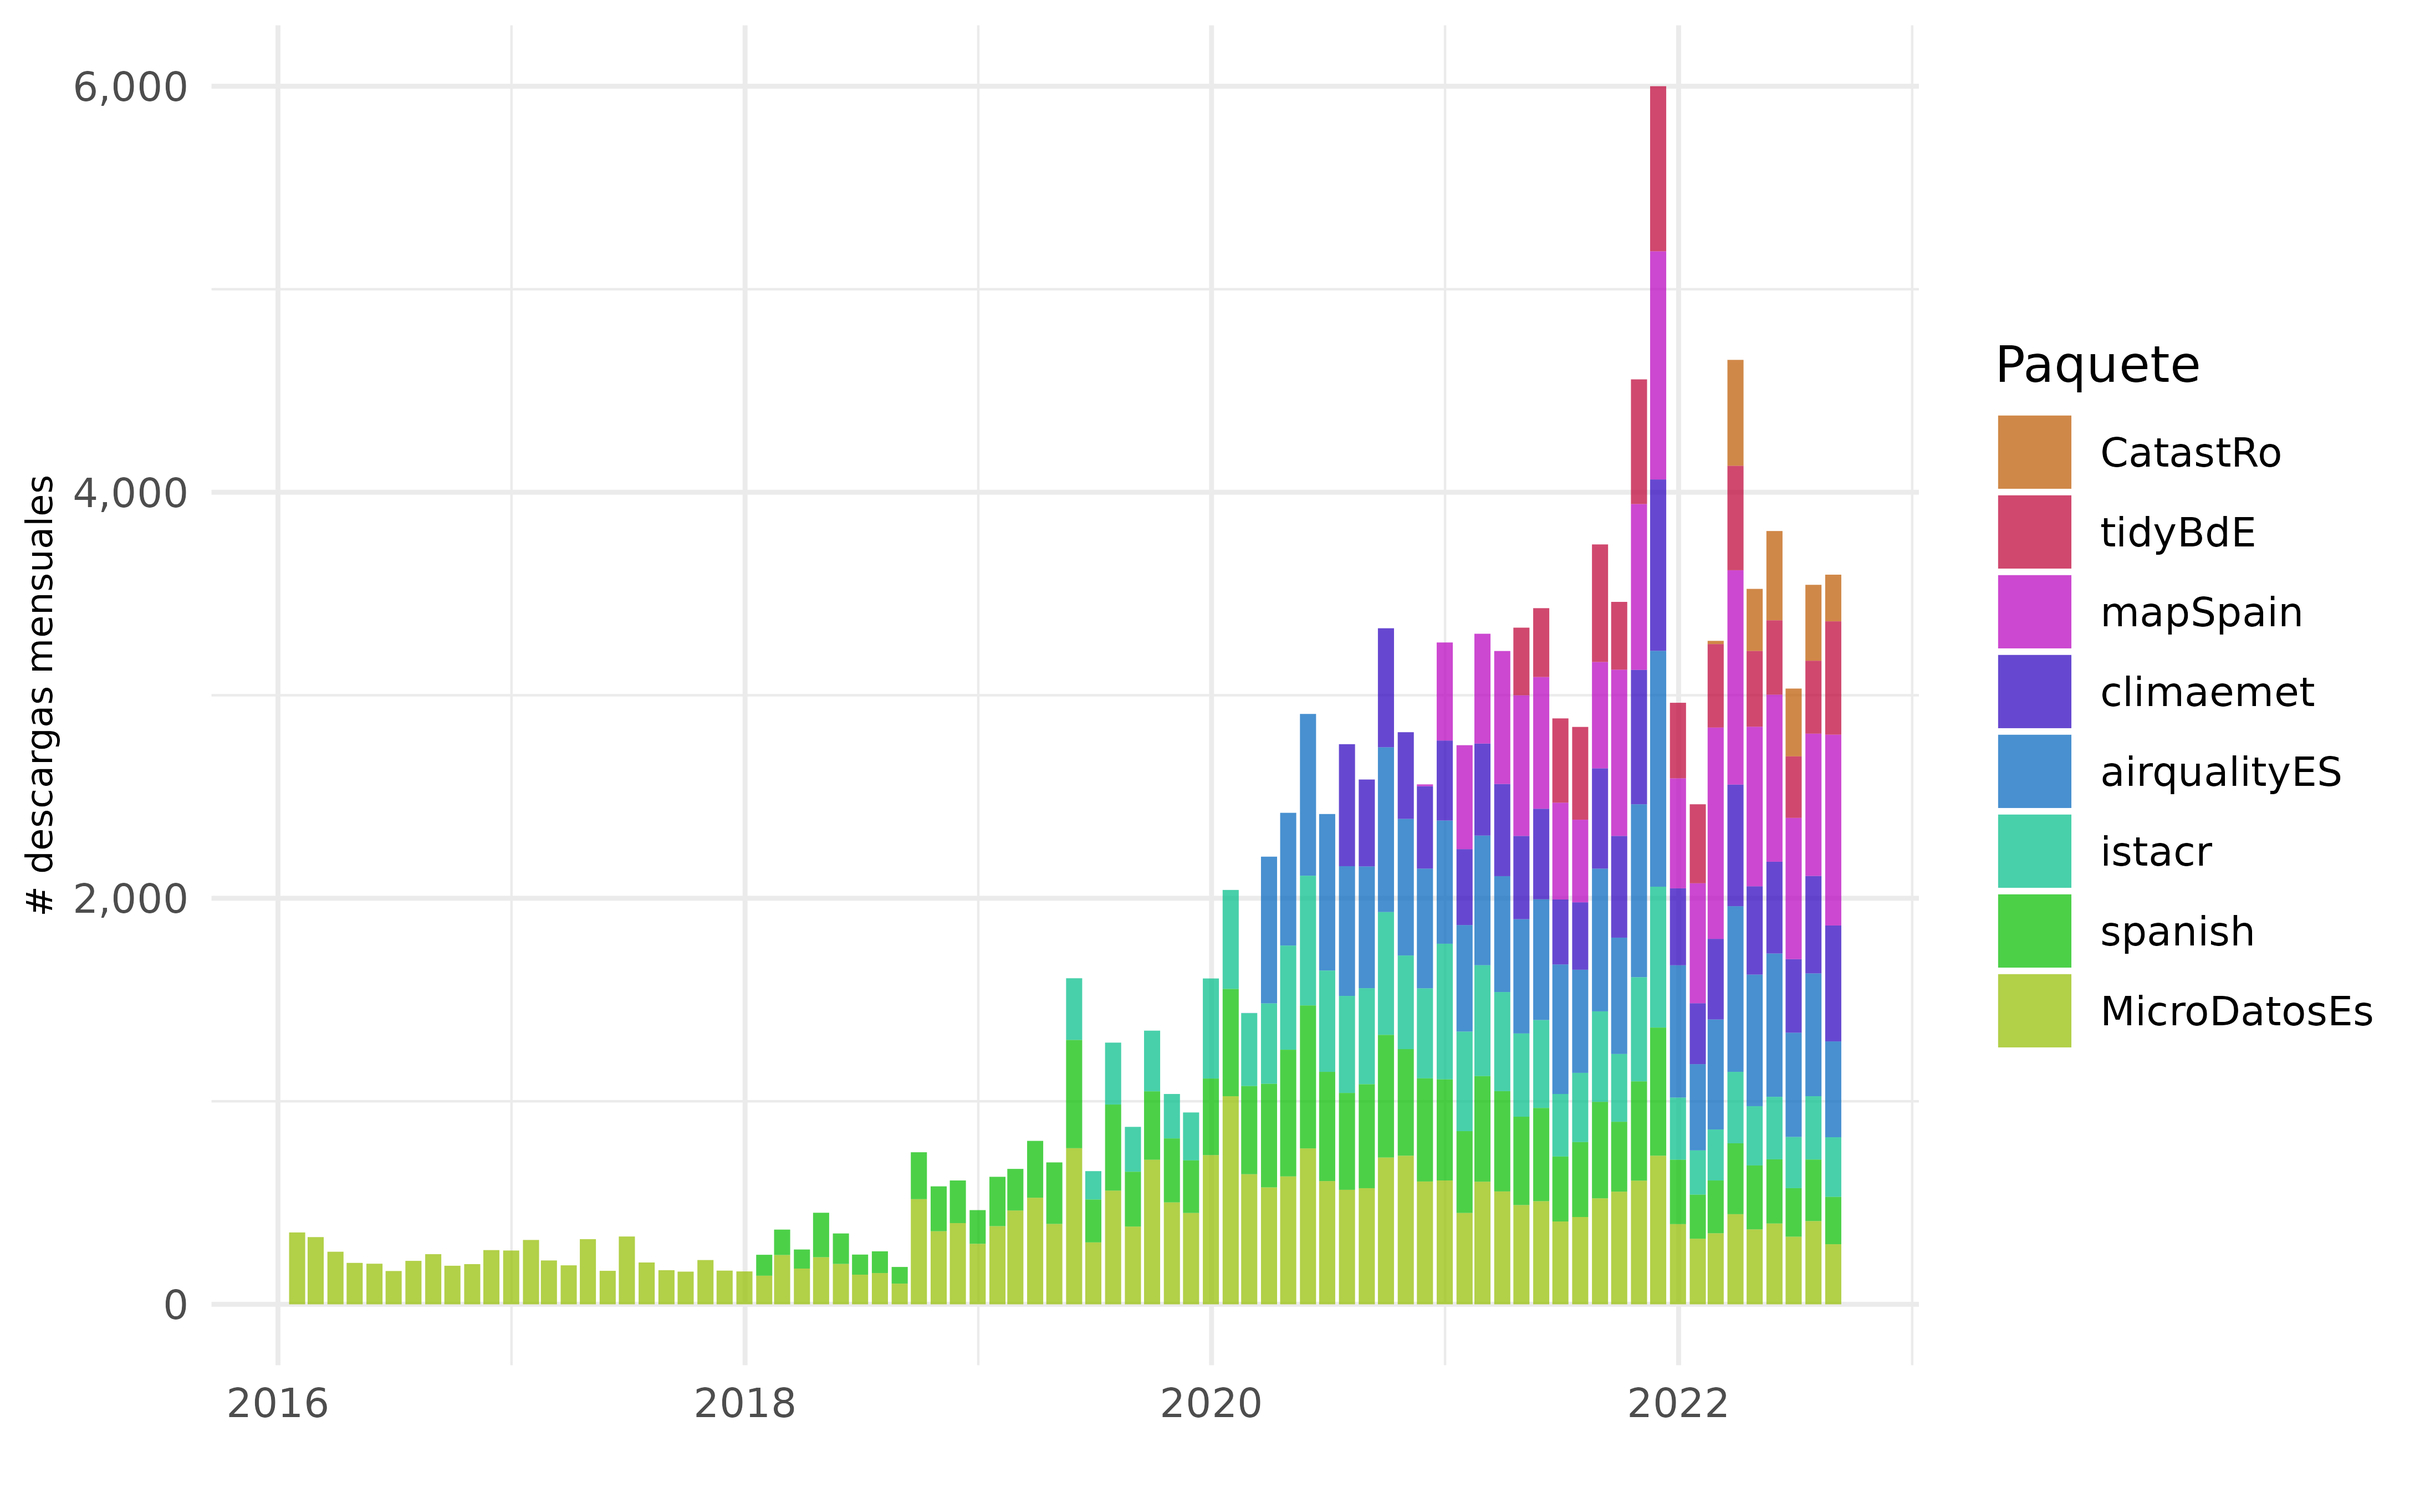
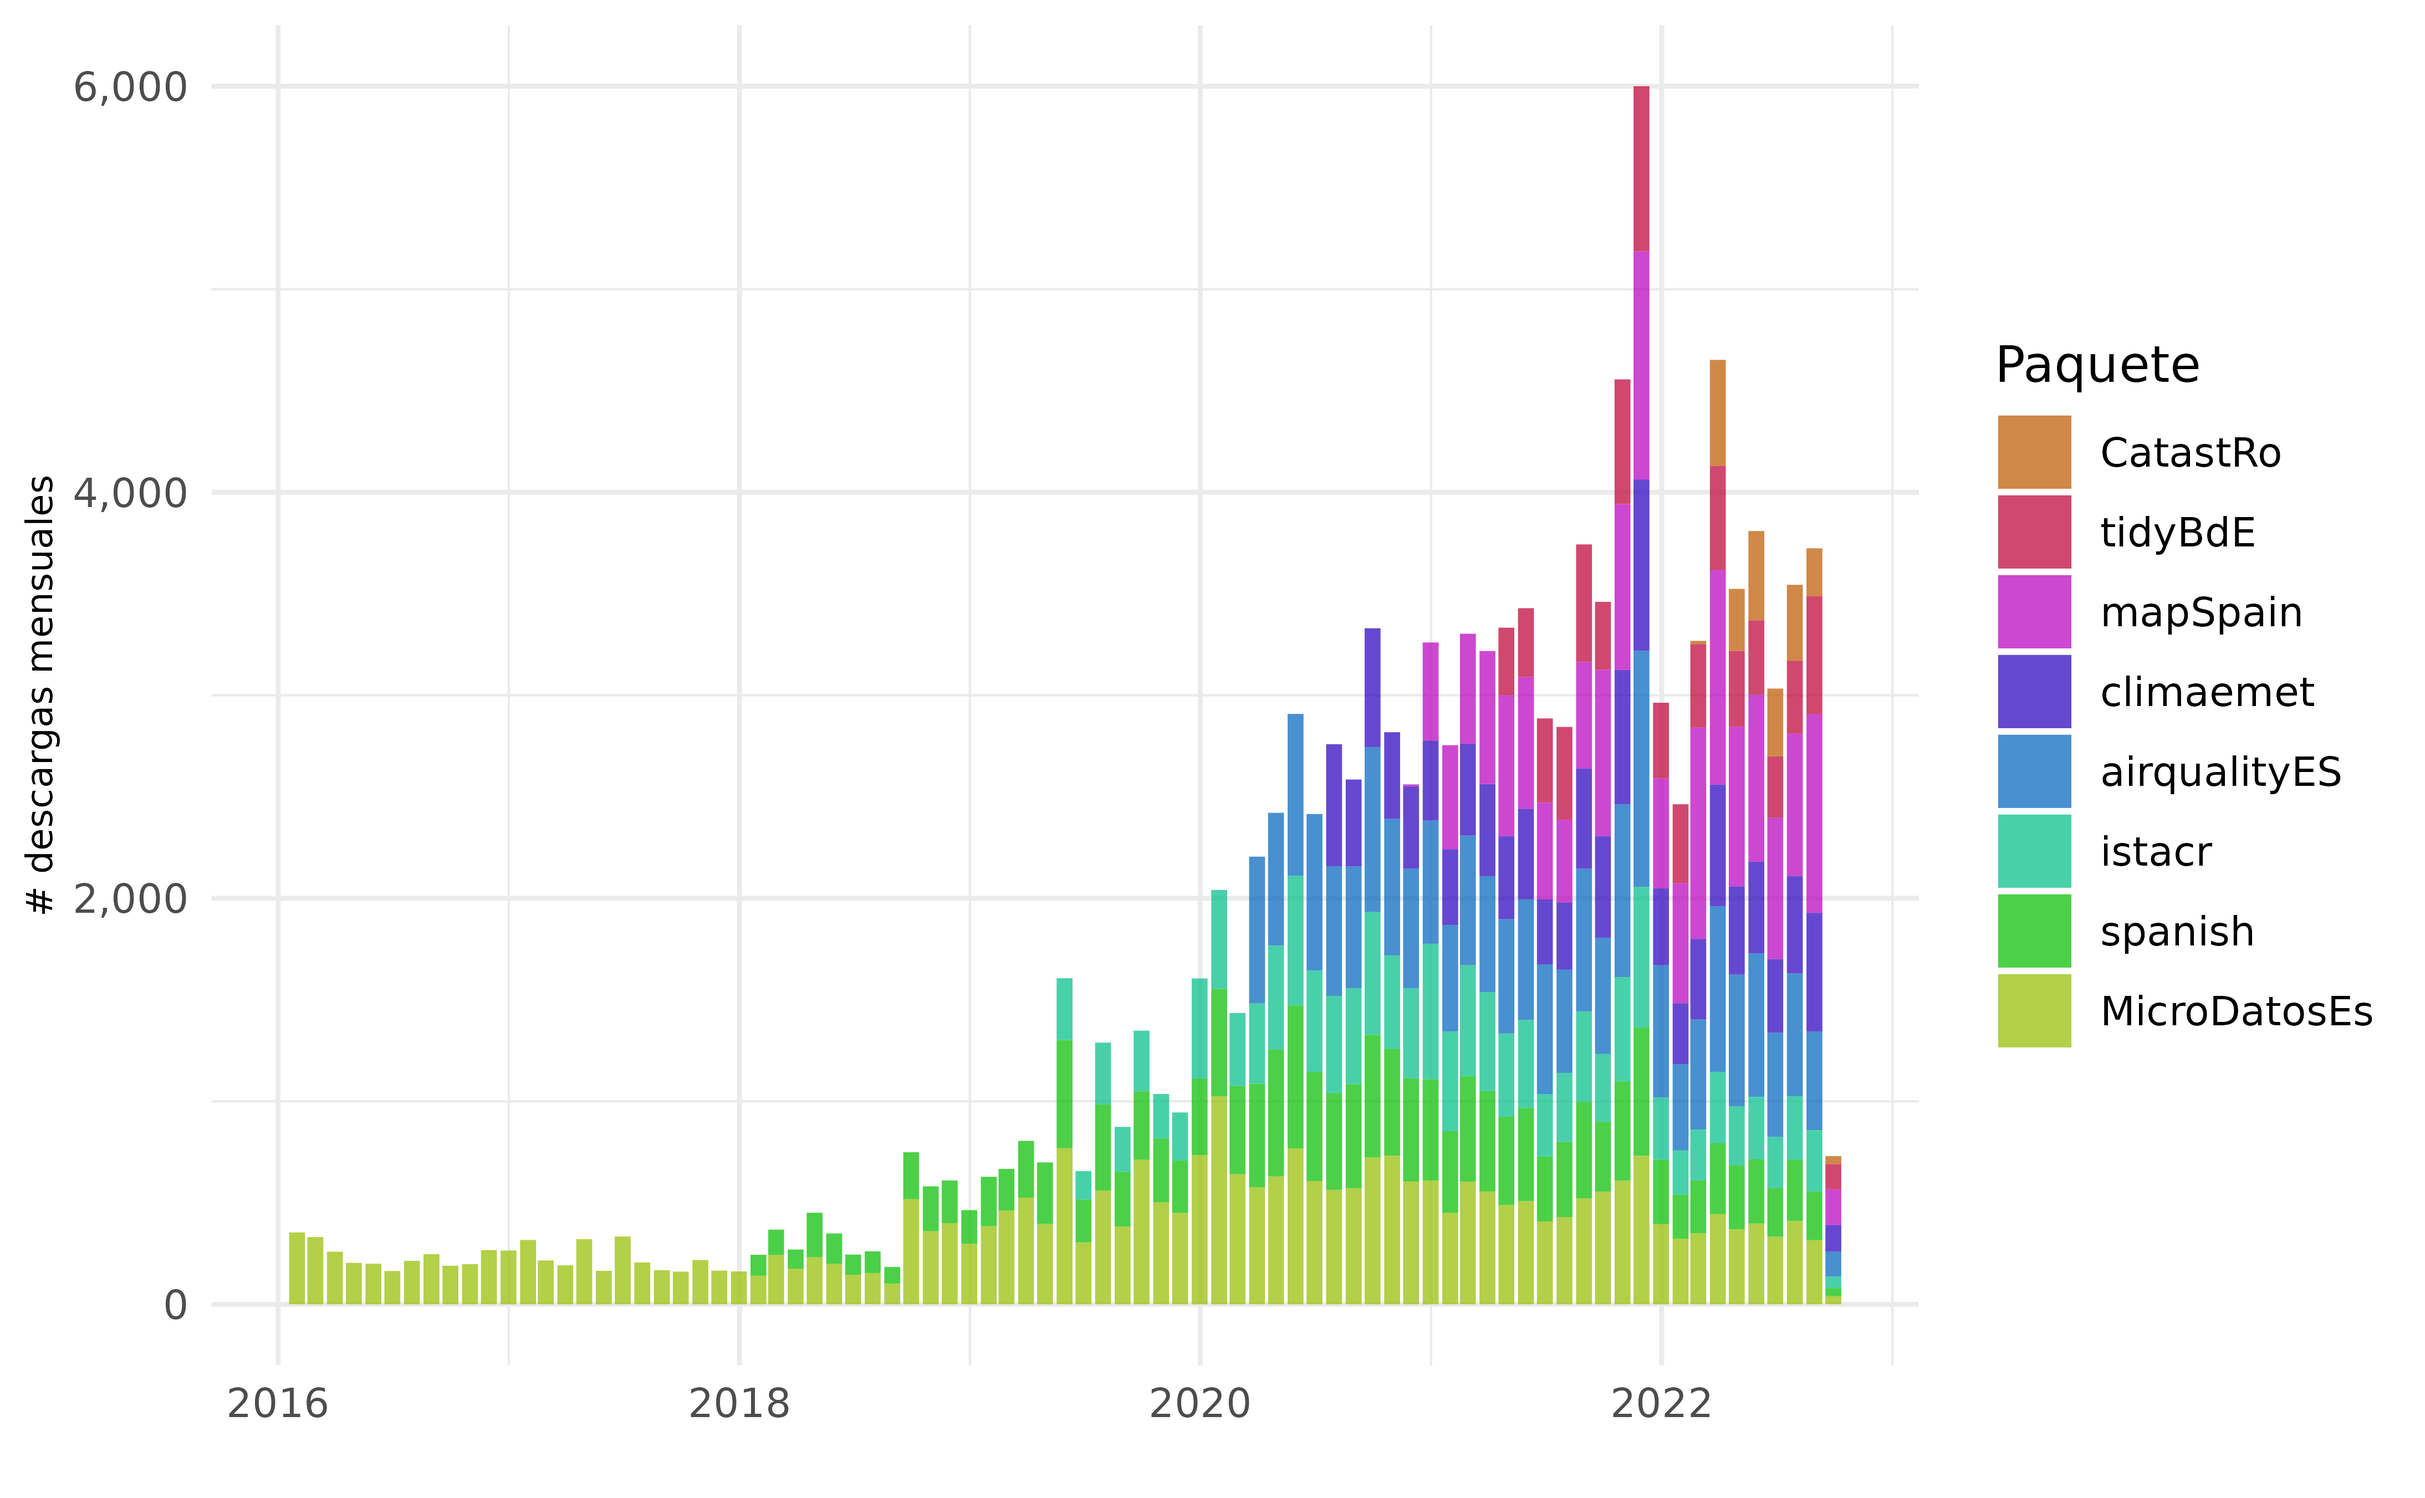
Built site for rostemplate: 0.1.1.9000@404c031

diff --git a/articles/descargas.html b/articles/descargas.html
@@ -100,7 +100,7 @@
 
     
     
-<p><em>Fecha de actualización: 01 Sep 2022</em></p>
+<p><em>Fecha de actualización: 08 Sep 2022</em></p>
 <p>Descargas de paquetes de rOpenSpain desde CRAN.</p>
 <div class="section level2">
 <h2 id="total-de-descargas">Total de descargas<a class="anchor" aria-label="anchor" href="#total-de-descargas"></a>
@@ -116,7 +116,7 @@
 <h2 id="datos">Datos<a class="anchor" aria-label="anchor" href="#datos"></a>
 </h2>
 <div id="station-table" class="reactable html-widget" style="width:auto;height:auto;"></div>
-<script type="application/json" data-for="station-table">{"x":{"tag":{"name":"Reactable","attribs":{"data":{"paquete":["CatastRo","tidyBdE","mapSpain","climaemet","airqualityES","istacr","spanish","MicroDatosEs"],"en CRAN":["2022-02-28","2021-04-08","2020-11-30","2020-07-07","2020-02-29","2019-04-24","2017-12-14","2013-10-21"],"media descargas diarias":[12.1,14.9,23.3,15.4,21.4,13.1,11.6,13.2],"ultimo dia":[11,37,50,47,30,26,12,12],"ultima semana":[40,121,192,140,93,91,38,42],"ultimo mes":[230,558,940,571,472,294,233,296],"ultimo año":[2222,5406,9936,5982,7967,4126,4013,5214]},"columns":[{"accessor":"paquete","name":"paquete","type":"character"},{"accessor":"en CRAN","name":"en CRAN","type":"Date"},{"accessor":"media descargas diarias","name":"media descargas diarias","type":"numeric"},{"accessor":"ultimo dia","name":"ultimo dia","type":"numeric"},{"accessor":"ultima semana","name":"ultima semana","type":"numeric"},{"accessor":"ultimo mes","name":"ultimo mes","type":"numeric"},{"accessor":"ultimo año","name":"ultimo año","type":"numeric"}],"filterable":true,"searchable":true,"defaultPageSize":10,"showPageSizeOptions":true,"pageSizeOptions":[10,25,50,100],"paginationType":"jump","showPageInfo":true,"minRows":1,"striped":true,"elementId":"station-table","dataKey":"67c6f5788c6871eac8ad736fc9c2ee1f"},"children":[]},"class":"reactR_markup"},"evals":[],"jsHooks":[]}</script>
+<script type="application/json" data-for="station-table">{"x":{"tag":{"name":"Reactable","attribs":{"data":{"paquete":["CatastRo","tidyBdE","mapSpain","climaemet","airqualityES","istacr","spanish","MicroDatosEs"],"en CRAN":["2022-02-28","2021-04-08","2020-11-30","2020-07-07","2020-02-29","2019-04-24","2017-12-14","2013-10-21"],"media descargas diarias":[11.9,15,23.4,15.5,21.4,13.1,11.6,13.2],"ultimo dia":[8,9,23,15,10,9,6,5],"ultima semana":[40,123,176,132,122,57,40,40],"ultimo mes":[224,641,1044,646,512,311,232,291],"ultimo año":[2268,5494,9992,6057,7986,4130,3998,5185]},"columns":[{"accessor":"paquete","name":"paquete","type":"character"},{"accessor":"en CRAN","name":"en CRAN","type":"Date"},{"accessor":"media descargas diarias","name":"media descargas diarias","type":"numeric"},{"accessor":"ultimo dia","name":"ultimo dia","type":"numeric"},{"accessor":"ultima semana","name":"ultima semana","type":"numeric"},{"accessor":"ultimo mes","name":"ultimo mes","type":"numeric"},{"accessor":"ultimo año","name":"ultimo año","type":"numeric"}],"filterable":true,"searchable":true,"defaultPageSize":10,"showPageSizeOptions":true,"pageSizeOptions":[10,25,50,100],"paginationType":"jump","showPageInfo":true,"minRows":1,"striped":true,"elementId":"station-table","dataKey":"01100193681ea89dd84e4fc3844ec64a"},"children":[]},"class":"reactR_markup"},"evals":[],"jsHooks":[]}</script>
 </div>
   </main><aside class="col-md-3"><nav id="toc"><h2>En esta página</h2>
     </nav></aside>
